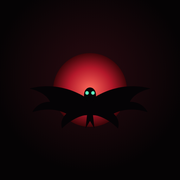
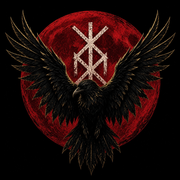
Add files via upload

diff --git a/index.html b/index.html
@@ -1,9 +1,9 @@
 <!DOCTYPE html>
-<!-- Ravenmarrow v2.0.1 · Nov 17 2026 -->
+<!-- Ravenmarrow v2.1 · Nov 17 2026 -->
 <html lang="en"><head>
 <meta charset="utf-8">
 <meta name="viewport" content="width=device-width,initial-scale=1,viewport-fit=cover,user-scalable=no">
-<meta name="build" content="2.0.1">
+<meta name="build" content="2.1">
 <meta name="build-date" content="Nov 17 2026">
 <meta name="robots" content="noindex,nofollow">
 <meta name="theme-color" content="#050304">
@@ -549,6 +549,62 @@ body.help-on.help-battle #app::after{bottom:auto;top:56px}
 .reveal .iart .iico{animation:revealp 1.2s ease-out}
 @keyframes revealp{0%{transform:scale(.4) rotate(-20deg);opacity:0}60%{transform:scale(1.12)}100%{transform:none;opacity:1}}
 @media (prefers-reduced-motion:reduce){.itile.r3,.itile.r4,.reveal .iart .iico{animation:none}}
+/* ---------- v2.1 title art + cinematic intro ---------- */
+#title{justify-content:flex-start;padding-top:calc(env(safe-area-inset-top,0px) + 11vh);overflow:hidden}
+#title > *:not(.tart){position:relative;z-index:1}
+#title #ravenMark{display:none}
+#title #startBtn{margin-top:auto}
+.tart{position:absolute;inset:0;z-index:0;background:#050304}
+.tart img{width:100%;height:100%;object-fit:cover;object-position:50% 60%;animation:tartdrift 40s ease-in-out infinite alternate}
+.tart::after{content:'';position:absolute;inset:0;background:linear-gradient(180deg,rgba(5,3,4,.55) 0%,rgba(5,3,4,0) 26%,rgba(5,3,4,0) 58%,rgba(5,3,4,.92) 88%,#050304 100%)}
+.tglowm{position:absolute;left:50%;top:41%;width:70vmin;height:70vmin;transform:translate(-50%,-50%);border-radius:50%;background:radial-gradient(circle,rgba(220,30,40,.28),rgba(220,30,40,0) 65%);mix-blend-mode:screen;animation:tglowm 5s ease-in-out infinite alternate;pointer-events:none}
+.tfog{position:absolute;left:-20%;right:-20%;bottom:18%;height:22%;background:radial-gradient(ellipse at 30% 50%,rgba(170,180,190,.16),transparent 60%),radial-gradient(ellipse at 75% 60%,rgba(170,180,190,.12),transparent 60%);filter:blur(6px);animation:tfog 18s ease-in-out infinite alternate;pointer-events:none}
+@keyframes tartdrift{from{transform:scale(1.04) translateY(0)}to{transform:scale(1.1) translateY(-1.5%)}}
+@keyframes tglowm{from{opacity:.55}to{opacity:1}}
+@keyframes tfog{from{transform:translateX(-6%)}to{transform:translateX(6%)}}
+#title .logo{font-size:clamp(28px,10vw,50px)}
+#title.reveal .logo{animation:logoin 2.2s ease-out both}
+#title.reveal .tagline{animation:fadein 1.4s .9s ease-out both}
+#title.reveal #startBtn,#title.reveal #howTitle{animation:fadein 1s 1.6s ease-out both}
+@keyframes logoin{0%{opacity:0;filter:blur(14px);letter-spacing:14px}60%{opacity:1}100%{opacity:1;filter:blur(0);letter-spacing:2px}}
+@keyframes fadein{from{opacity:0;transform:translateY(8px)}to{opacity:1;transform:none}}
+#intro{position:absolute;inset:0;z-index:95;background:#000;display:none;overflow:hidden;cursor:pointer}
+#intro.on{display:block}
+#intro.out{animation:introout .9s forwards}
+@keyframes introout{to{opacity:0}}
+.ishot{position:absolute;inset:0;opacity:0;transition:opacity 1s ease}
+.ishot.on{opacity:1}
+.ishot img{width:100%;height:100%;object-fit:cover;display:block}
+.ishot.push img{animation:ipush 4.6s ease-out forwards}
+.ishot.quake img{animation:iquake 4.6s ease-in-out forwards}
+.ishot.rise img{animation:irise 4.6s ease-out forwards}
+.ishot.tilt img{animation:itilt 4.6s ease-in-out forwards}
+@keyframes ipush{from{transform:scale(1.02)}to{transform:scale(1.16)}}
+@keyframes irise{from{transform:scale(1.14) translateY(4%)}to{transform:scale(1.04) translateY(0)}}
+@keyframes itilt{from{transform:scale(1.22) translateY(9%)}to{transform:scale(1.22) translateY(-9%)}}
+@keyframes iquake{0%{transform:scale(1.08)}20%{transform:scale(1.08) translate(-.6%,.3%)}22%{transform:scale(1.08) translate(.7%,-.4%)}24%{transform:scale(1.08) translate(-.5%,.5%)}26%{transform:scale(1.08)}55%{transform:scale(1.1) translate(.5%,-.3%)}57%{transform:scale(1.1) translate(-.6%,.4%)}59%{transform:scale(1.1)}100%{transform:scale(1.13)}}
+.ifx{position:absolute;inset:0;pointer-events:none}
+.ifx .lid{position:absolute;left:0;right:0;height:50%;background:#000;animation:lid 4.2s ease-in-out forwards}
+.ifx .lid.t{top:0;transform-origin:top}.ifx .lid.b{bottom:0;transform-origin:bottom}
+@keyframes lid{0%{transform:scaleY(1)}18%{transform:scaleY(0)}52%{transform:scaleY(0)}56%{transform:scaleY(1)}60%{transform:scaleY(0)}100%{transform:scaleY(0)}}
+.ifx .glow{position:absolute;width:60px;height:60px;margin:-30px 0 0 -30px;border-radius:50%;mix-blend-mode:screen}
+.ifx .glow.teal{width:60vmin;height:30vmin;margin:-15vmin 0 0 -30vmin;background:radial-gradient(ellipse,rgba(80,255,200,.45),transparent 65%);animation:ipulse 1.1s ease-in-out infinite alternate}
+.ifx .glow.eye{width:22px;height:22px;margin:-11px 0 0 -11px;background:radial-gradient(circle,#dfffff 0%,#5ff0e0 35%,rgba(95,240,224,0) 70%);box-shadow:0 0 30px 10px rgba(95,240,224,.5);opacity:0;animation:ieye 4.2s ease-in forwards}
+@keyframes ipulse{from{opacity:.35}to{opacity:1}}
+@keyframes ieye{0%,45%{opacity:0;transform:scale(.4)}60%{opacity:1;transform:scale(1.4)}100%{opacity:.85;transform:scale(1)}}
+.ifx .emb{position:absolute;bottom:-10px;width:4px;height:4px;border-radius:50%;background:#ffb347;box-shadow:0 0 8px 2px rgba(255,120,40,.8);animation:iemb linear infinite}
+@keyframes iemb{0%{transform:translate(0,0);opacity:0}10%{opacity:1}100%{transform:translate(20px,-100vh);opacity:0}}
+.iflash{position:absolute;inset:0;background:#dff4ff;opacity:0;pointer-events:none;mix-blend-mode:screen}
+.iflash.on{animation:iflash .5s ease-out}
+@keyframes iflash{0%{opacity:0}8%{opacity:.6}20%{opacity:.1}30%{opacity:.4}100%{opacity:0}}
+.icap{position:absolute;left:0;right:0;bottom:calc(env(safe-area-inset-bottom,0px) + 12%);margin:0;padding:0 28px;text-align:center;font-family:fell,Georgia,serif;font-style:italic;font-size:clamp(20px,6.2vw,28px);line-height:1.3;color:#f4e8d8;text-shadow:0 0 14px #000,0 2px 4px #000,0 0 30px rgba(179,24,42,.6);pointer-events:none}
+.icap span{display:inline-block;opacity:0;filter:blur(6px);animation:capin .9s forwards}
+@keyframes capin{to{opacity:1;filter:blur(0)}}
+.iskip{position:absolute;top:calc(env(safe-area-inset-top,0px) + 12px);right:12px;z-index:2;min-height:40px;padding:0 16px;background:rgba(10,6,8,.6);border:1px solid #6b5a44;color:#c9b38f;font-family:cinzel,serif;font-size:13px;letter-spacing:2px}
+.itap{position:absolute;bottom:calc(env(safe-area-inset-bottom,0px) + 18px);left:0;right:0;text-align:center;font-family:cinzel,serif;font-size:10px;letter-spacing:3px;color:rgba(201,179,143,.55);pointer-events:none}
+@media (prefers-reduced-motion:reduce){.tart img,.tglowm,.tfog,#title.reveal *,.ishot img{animation:none !important}}
+#toast{z-index:97}
+@media (orientation:landscape){.ishot[data-k="1"] img{object-position:30% 85%}.ishot[data-k="2"] img{object-position:50% 6%}.ishot[data-k="0"] img{object-position:40% 40%}.tglowm{display:none}.tart img{object-position:50% 30%}}
 
 </style>
 </head><body>
@@ -557,6 +613,7 @@ body.help-on.help-battle #app::after{bottom:auto;top:56px}
  <div class="ash" id="ash"></div>
  <canvas id="atmo"></canvas><div id="skyflash"></div>
  <section class="screen on" id="title">
+  <div class="tart" aria-hidden="true"><img src="rm-title.webp" alt=""><i class="tglowm"></i><i class="tfog"></i></div>
   <div id="ravenMark" style="margin-bottom:6px"></div>
   <div class="logo">RAVENMARROW</div>
   <div class="tagline">A saga of the restless dead</div>
@@ -582,6 +639,7 @@ body.help-on.help-battle #app::after{bottom:auto;top:56px}
   <div id="skills"></div>
  </section>
  <canvas id="fxc"></canvas>
+ <div id="intro" aria-label="Intro"></div>
  <div id="whisper"><p></p></div>
  <div id="flipmsg">ᛊᚺᛖ ᛊᛖᛖᛊ ᛃᛟᚢ<br><b>SHE SEES YOU</b></div>
  <div id="hurtflash"></div>
@@ -1403,6 +1461,7 @@ const VERSION = document.querySelector('meta[name="build"]').content; // e.g. "1
 const BUILD_DATE = document.querySelector('meta[name="build-date"]').content;
 // Newest first. Every update adds an entry; it shows once after the update lands.
 const CHANGELOG = [
+ {v:'2.1', d:'Nov 17 2026', notes:['A new title screen and a cinematic intro. Watch it again any time from Settings.', 'A new raven icon for your home screen.']},
  {v:'2.0.1', d:'Nov 17 2026', notes:['Equip best is smarter: it gives each piece to whoever gains the most and never leaves your squad weaker.', 'Raid clears in the last realm can drop tier 6 Drowned Gold gear.']},
  {v:'2.0', d:'Nov 17 2026', notes:[
   'Gear has arrived: weapons, armor and charms. Every warrior has three gear slots.',
@@ -1607,6 +1666,66 @@ function toast(t, ms){ const el = $('#toast'); el.textContent = t; el.classList.
 function sheet(html, cls){ Help.off(); const v = $('#veil'); v.innerHTML = `<div class="sheet ${cls || ''}" style="position:relative">${html}</div>`; v.classList.add('on'); v.onclick = e => { if (e.target === v && !v._lock) closeSheet(); }; return v.firstChild; }
 function closeSheet(){ const v = $('#veil'); v.classList.remove('on'); v.innerHTML = ''; v._lock = false; }
 function showScreen(id){ Help.off(); $$('.screen').forEach(s => s.classList.toggle('on', s.id === id)); }
+// ---------- TITLE + CINEMATIC INTRO (v2.1) ----------
+// Plays once on first launch, and any time from Settings. Images live beside index.html.
+const INTRO = [
+ {img:'rm-eye.webp', move:'push', cap:'The ravens saw it first.', fx:'blink'},
+ {img:'rm-barrow.webp', move:'quake', cap:'The barrows split open. The dead climbed out.', fx:'teal'},
+ {img:'rm-hel.webp', move:'rise', cap:'She called them home.', fx:'eye'},
+ {img:'rm-realms.webp', move:'tilt', cap:'Iron, Hel, Root and Sea. Every realm fell to the dark.', fx:'storm'},
+ {img:'rm-squad.webp', move:'push', cap:'Three still stand.', fx:'embers'},
+];
+const Intro = (() => {
+ let i = -1, timer = 0, running = false, onDone = null;
+ const SHOT_MS = 4200, IMG_RATIO = 1008 / 1792;
+ const low = () => !!(window.matchMedia && matchMedia('(prefers-reduced-motion: reduce)').matches);
+ // put an overlay on a spot of the image, wherever "cover" cropping lands it on this screen
+ function spot(fx, fy){ const a = $('#intro').getBoundingClientRect(); let w = a.width, h = w / IMG_RATIO; if (h < a.height){ h = a.height; w = h * IMG_RATIO; }
+  const im = $$('#intro .ishot')[i] && $$('#intro .ishot')[i].querySelector('img'), op = im ? getComputedStyle(im).objectPosition.split(' ').map(v => parseFloat(v) / 100) : [.5, .5];
+  return {x:(a.width - w) * (isFinite(op[0]) ? op[0] : .5) + fx * w, y:(a.height - h) * (isFinite(op[1]) ? op[1] : .5) + fy * h}; }
+ function build(){
+  const el = $('#intro'); if (el.dataset.built) return;
+  el.innerHTML = INTRO.map((s, k) => `<div class="ishot" data-k="${k}"><img alt="" src="${s.img}" decoding="async"></div>`).join('') + `<div class="ifx"></div><div class="iflash"></div><p class="icap"></p><button class="iskip" id="iSkip">Skip</button><div class="itap">Tap to continue</div>`;
+  el.dataset.built = 1;
+  $('#iSkip').onclick = e => { e.stopPropagation(); finish(); };
+  el.onclick = () => { if (running) next(); };
+  el.querySelectorAll('img').forEach((im, k) => im.onerror = () => { INTRO[k].bad = true; if (running && (k === 0 || k === i)) next(); }); // a missing shot is skipped; if none load, the title shows
+ }
+ function caption(t){ const c = $('#intro .icap'); c.innerHTML = ''; t.split(' ').forEach((w, k) => { const s = document.createElement('span'); s.textContent = w; s.style.animationDelay = (0.5 + k * 0.12) + 's'; if (k) c.appendChild(document.createTextNode(' ')); c.appendChild(s); }); }
+ function effects(s){
+  const f = $('#intro .ifx'); f.innerHTML = ''; f.className = 'ifx';
+  if (low()) return;
+  if (s.fx === 'blink') f.innerHTML = '<i class="lid t"></i><i class="lid b"></i>';
+  if (s.fx === 'teal'){ const p = spot(0.3, 0.86); f.innerHTML = `<i class="glow teal" style="left:${p.x}px;top:${p.y}px"></i>`; }
+  if (s.fx === 'eye'){ const p = spot(0.573, 0.098); f.innerHTML = `<i class="glow eye" style="left:${p.x}px;top:${p.y}px"></i>`; }
+  if (s.fx === 'storm'){ const fl = $('#intro .iflash'); [900, 1150, 2900].forEach(t => setTimeout(() => { if (running && INTRO[i] === s){ fl.classList.remove('on'); void fl.offsetWidth; fl.classList.add('on'); } }, t)); }
+  if (s.fx === 'embers') f.innerHTML = Array.from({length:22}, (_, k) => `<i class="emb" style="left:${(k * 37) % 100}%;animation-delay:-${(k * 0.37).toFixed(2)}s;animation-duration:${(2.6 + (k % 5) * 0.5).toFixed(1)}s"></i>`).join('');
+ }
+ function show(k){
+  i = k; const s = INTRO[k];
+  $$('#intro .ishot').forEach((sh, n) => { sh.classList.toggle('on', n === k); sh.classList.remove('push', 'quake', 'rise', 'tilt'); if (n === k && !low()){ void sh.offsetWidth; sh.classList.add(s.move); } });
+  caption(s.cap); effects(s);
+  clearTimeout(timer); timer = setTimeout(next, SHOT_MS);
+ }
+ function next(){ if (!running) return; let k = i + 1; while (k < INTRO.length && INTRO[k].bad) k++; if (k < INTRO.length) show(k); else finish(); }
+ function finish(){
+  if (!running) return; running = false; clearTimeout(timer);
+  S.set.introSeen = true; save();
+  const el = $('#intro'); el.classList.add('out'); titleReveal();
+  setTimeout(() => { el.classList.remove('on', 'out'); $$('#intro .ishot').forEach(sh => sh.classList.remove('on')); if (onDone) onDone(); }, 900);
+ }
+ return {
+  play(done){
+   build(); onDone = done || null; running = true;
+   // wait for the first image so the intro never opens on black
+   const first = $('#intro img'); const go = () => { if (!running) return; if (!$('#title').classList.contains('on')){ running = false; return; } $('#intro').classList.add('on'); show(0); };
+   if (first.complete && first.naturalWidth) go(); else { first.addEventListener('load', go, {once:true}); first.addEventListener('error', () => { if (running && !$('#intro').classList.contains('on')){ let k = 1; while (k < INTRO.length && INTRO[k].bad) k++; if (k < INTRO.length){ $('#intro').classList.add('on'); show(k); } else finish(); } }, {once:true}); setTimeout(() => { if (running && !$('#intro').classList.contains('on')) finish(); }, 6000); }
+   INTRO.forEach(s => { const im = new Image(); im.src = s.img; });
+  },
+  running:() => running,
+ };
+})();
+function titleReveal(){ const t = $('#title'); t.classList.remove('reveal'); void t.offsetWidth; t.classList.add('reveal'); }
 // ---------- GEAR, ARMORY, EQUIP BEST (v2.0) ----------
 const SLOTS = ['weapon', 'armor', 'charm'], SLOT_N = {weapon:'Weapon', armor:'Armor', charm:'Charm'}, ARMORY_CAP = 80;
 function gearOk(){ if (!S.gear || typeof S.gear !== 'object') S.gear = {items:[], eq:{}}; if (!Array.isArray(S.gear.items)) S.gear.items = []; if (!S.gear.eq || typeof S.gear.eq !== 'object') S.gear.eq = {}; if (!S.kit) S.kit = {spear:0, bow:0, berserk:0}; return S.gear; }
@@ -3248,6 +3367,7 @@ function settingsSheet(){
  sheet(`<button class="btn small close" id="xs">Close</button><h3>Settings</h3>
   <div class="stat"><span>SOUND EFFECTS</span><button class="btn small" id="tSfx">${S.set.sfx ? 'On' : 'Off'}</button></div>
   <div class="stat"><span>MUSIC</span><button class="btn small" id="tMus">${S.set.music ? 'On' : 'Off'}</button></div>
+  <div class="stat"><span>INTRO</span><button class="btn small" id="tIntro">Watch</button></div>
   <div class="stat"><span>LET HER IN</span><button class="btn small" id="tWh">${S.set.whisper !== false ? 'On' : 'Off'}</button></div>
   <div class="stat"><span>WEATHER &amp; MAGIC</span><button class="btn small" id="tFx">${S.set.fx !== false ? 'On' : 'Off'}</button></div>
   <div class="row" style="margin:14px 0 6px"><button class="btn" id="howBtn">How to play</button><button class="btn" id="tutBtn">Replay guide</button></div>
@@ -3263,6 +3383,7 @@ function settingsSheet(){
  S.set.seenInstall = true; save(); renderTop();
  $('#xs').onclick = closeSheet;
  $('#tSfx').onclick = () => { S.set.sfx = !S.set.sfx; save(); sfx('tap'); settingsSheet(); };
+ $('#tIntro').onclick = () => { closeSheet(); showScreen('title'); Intro.play(); };
  $('#tWh').onclick = () => { S.set.whisper = S.set.whisper === false; save(); sfx('tap'); settingsSheet(); };
  $('#tFx').onclick = () => { S.set.fx = S.set.fx === false; save(); ATMO.toggle(S.set.fx); sfx('tap'); settingsSheet(); };
  $('#tMus').onclick = () => { S.set.music = !S.set.music; save(); S.set.music ? musicOn() : musicOff(); settingsSheet(); };
@@ -3419,6 +3540,7 @@ function boot(){
  Whisper.init();
  Help.init();
  setBG(0);
+ if (!S.set.introSeen) Intro.play(); else titleReveal();
  $('#startBtn').textContent = S.tut.done || S.stats.wins ? 'Continue the saga' : 'Begin the saga';
  $('#startBtn').onclick = () => { ac(); sfx('boss'); Whisper.onOpen(); if (S.set.music) musicOn(); showScreen('hub'); go('saga'); setTimeout(() => { if (!S.tut.done) Coach.intro(); else whatsNew(false); }, 350); setTimeout(checkDeeds, 600); };
  $('#howTitle').onclick = () => { ac(); howSheet(); };

diff --git a/sw.js b/sw.js
@@ -1,6 +1,6 @@
 // Ravenmarrow service worker. Cache name changes every version so installed phones update.
-const CACHE = 'ravenmarrow-v2.0.1';
-const CORE = ['./', './index.html', './manifest.json', './icon-192.png', './icon-512.png', './apple-touch-icon.png'];
+const CACHE = 'ravenmarrow-v2.1';
+const CORE = ['./', './index.html', './manifest.json', './icon-192.png', './icon-512.png', './apple-touch-icon.png', './rm-title.webp', './rm-eye.webp', './rm-barrow.webp', './rm-hel.webp', './rm-realms.webp', './rm-squad.webp'];
 self.addEventListener('install', e => {
   e.waitUntil(caches.open(CACHE).then(c => c.addAll(CORE)));
 });
@@ -14,8 +14,8 @@ self.addEventListener('fetch', e => {
   const isPage = req.mode === 'navigate' || req.url.endsWith('.html');
   if (isPage) {
     // network first: new chapters show up as soon as there is signal
-    e.respondWith(fetch(req, {cache: 'no-store'}).then(r => { const copy = r.clone(); caches.open(CACHE).then(c => c.put('./index.html', copy)); return r; }).catch(() => caches.match('./index.html')));
+    e.respondWith(fetch(req, {cache: 'no-store'}).then(r => { if (r.ok){ const copy = r.clone(); caches.open(CACHE).then(c => c.put('./index.html', copy)); } return r; }).catch(() => caches.match('./index.html')));
   } else {
-    e.respondWith(caches.match(req).then(r => r || fetch(req)));
+    e.respondWith(caches.match(req).then(r => r || fetch(req).then(res => { if (res.ok){ const copy = res.clone(); caches.open(CACHE).then(c => c.put(req, copy)); } return res; })));
   }
 });

diff --git a/ROADMAP.md b/ROADMAP.md
@@ -1,6 +1,6 @@
 # Ravenmarrow: Roadmap
 
-**Current version:** 2.0.1 · Nov 17 2026
+**Current version:** 2.1 · Nov 17 2026
 **Live URL:** https://motbuchanan.github.io/ravenmarrow/ (repo: ravenmarrow, files at the root)
 **What it is:** A gothic Norse boss-battle game drawn entirely in code. A gift build inspired by a mobile Viking strategy RPG, built around boss fights, a warrior roster, and a light village. No money, no accounts, no data leaves the phone.
 
@@ -50,6 +50,13 @@ Her weekend feedback: had a blast, got far, played between Vikingard raids. Comb
 - Attack styles per warrior look (HSTYLE) and per enemy shape (FSTYLE) in ui.js: body moves (release), projectiles (orb, arrow, ravens, sound ring, embers), impact variants (stab, cleave, claw marks, bite, slam rings), random variant + timing jitter on every strike.
 - Engine: PASSIVES (one per warrior), TRICKS per enemy shape (poison, bleed, blind, all-hit), AFFIXES elites (Armored, Frenzied, Vampiric, Hulking) from realm 2 on, DoT/miss/endure events. Tutorial fight has no tricks. Foe stats raised ~12% to offset passives (sim curve unchanged).
 - Village clarity: Now/Next numbers on every building, before/after squad stats on upgrade, bonus chips at the top of every fight, stat annotations on warrior pages.
+
+## Shipped in 2.1 (Nov 17 2026)
+Title screen + cinematic intro from Mot's generated art (6 webp files beside index.html, about 790 KB total, all in the service worker's offline list; the SW now also caches any same-origin file it fetches).
+- Files: rm-title.webp (title key art), rm-eye, rm-barrow, rm-hel, rm-realms, rm-squad (intro shots); new icon-192/512 and apple-touch-icon from the raven emblem. Source art is kept in art/ and build.py copies it into dist.
+- Intro module (ui.js): 5 shots x 4.2 s with a camera move each (push, quake, rise, tilt) and an effect (eyelid blink, teal crack glow, Hel-Maiden eye ignite placed with cover-crop math, lightning flashes, embers), word-by-word captions, tap to advance, Skip. Plays once (S.set.introSeen), replay from Settings > Intro. Falls straight to the title if an image fails to load. No sound.
+- Title: key art with slow drift, pulsing moon glow and fog; logo burns in, buttons fade in after.
+- Tests: intro must be skipped with `typeof Intro !== 'undefined' && Intro.running()` (const is not on window).
 
 ## Shipped in 2.0.1 (Nov 17 2026)
 - Equip best rewritten: each round hands out the single biggest gain across the whole roster (squad gains count triple), and it never saves a layout weaker than the current one. Tested on 40 random armories: never weaker, no item on two warriors, about 70 ms.
